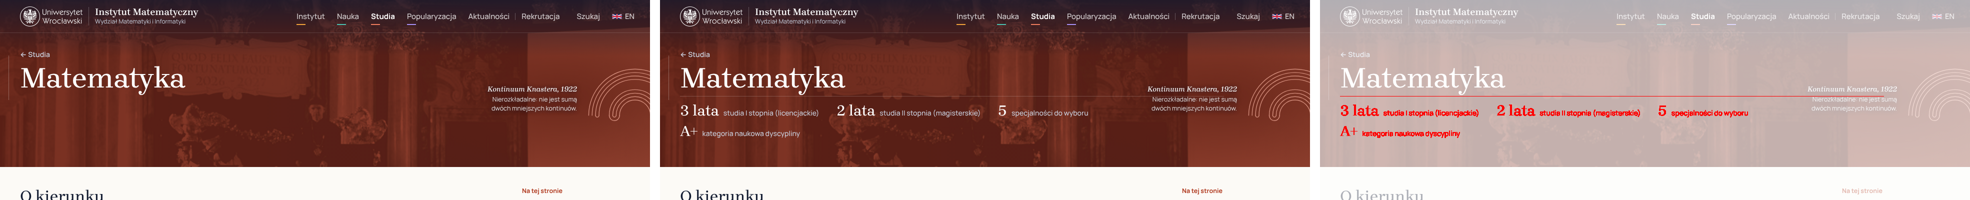
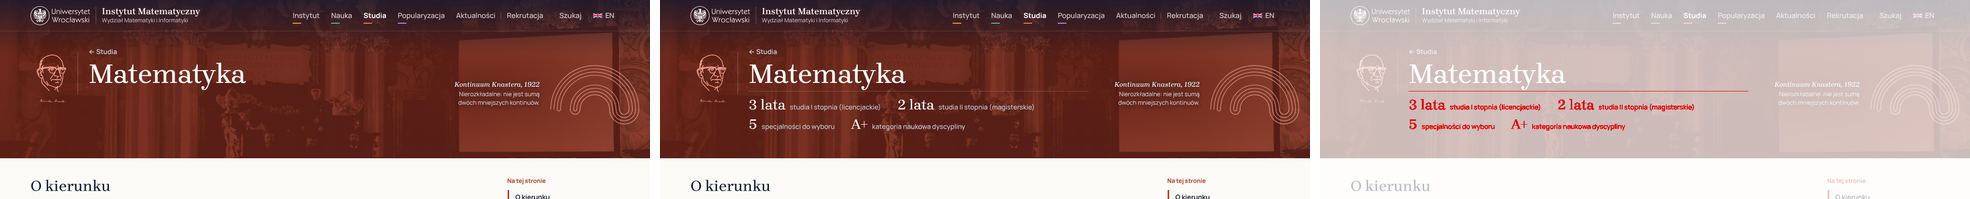
Kierunek: fakty w banerze nie wchodzą na opis znaku patrona (drugi rząd)
Claude-Session: https://claude.ai/code/session_01TZCzj21KEeGYHSAQ2QnpJf

diff --git a/RAPORT-PORZADKI.md b/RAPORT-PORZADKI.md
@@ -285,7 +285,10 @@ Animacja szkiców patronów (`src/scripts/zal/szkice.ts`) działa dalej.
   (`raport-zrzuty/etap4-menu-telefonu-podstrona-przed-po-roznica.png`).
 - Kierunek (komputer): fakty w banerze są widoczne. W stanie po etapie 3 (i wcześniej na `wyglad/zalozyciele`) baner miał
   miejsce na liczby, ale dwie listy chowały się nawzajem i nie było żadnej (`etap4-kierunek-liczby-w-banerze-…png`).
-  Na telefonie fakty dalej schowane (cztery nie mieszczą się w trzech kolumnach).
+  Rząd faktów kończy się przed opisem znaku patrona i łamie się na drugi (pierwsza wersja wchodziła na opis przy 1366 px —
+  poprawione po teście nachodzenia na 48 banerach). Na telefonie fakty dalej schowane (cztery nie mieszczą się w trzech
+  kolumnach). Nachodzenie liczb na opis znaku przy wąskim oknie (≤ 1366 px) na Konferencjach, Publikacjach i Projektach
+  było już w stanie wyjściowym i zostaje (zalecenie 2 zlecenia 11).
 - Specjalność (telefon): etykiety specjalności w banerze widoczne także na telefonie (jedna wersja;
   `etap4-specjalnosc-telefon-etykiety-…png`).
 - Plan zajęć: panele semestrów mają `id` `zimowy` / `letni` — linki z treści (`/studia/plan-zajec#letni`) znów mają cel.

diff --git a/PYTANIA.md b/PYTANIA.md
@@ -133,7 +133,8 @@ panelu na każdej stronie (jak na głównej). **Jak cofnąć.** Usunąć klasę 
 ## 12.8. Liczby w banerze Kierunku
 **Pytanie.** Baner Kierunku miał na komputerze miejsce na liczby, ale żadnej nie pokazywał (dwie listy chowały się nawzajem).
 **Przyjęta odpowiedź.** Pokazuję fakty kierunku (np. „3 lata — studia I stopnia”, „A+ — kategoria naukowa”); na telefonie
-schowane jak dotąd. Przy czterech faktach rząd łamie się na komputerze — rozwiązuje to zalecenie 2 zlecenia 11.
+schowane jak dotąd. Rząd faktów kończy się przed opisem znaku patrona, dalsze fakty idą do drugiego rzędu (reguła
+w `Kierunek.astro`); jeden rząd z chowaniem nadmiarowych to zalecenie 2 zlecenia 11.
 **Jak cofnąć.** W `Kierunek.astro` usunąć listę `.kh-liczby` ze slotu `baner`.
 
 ## 12.9. Sygnety w menu telefonu a rozmiar stron
